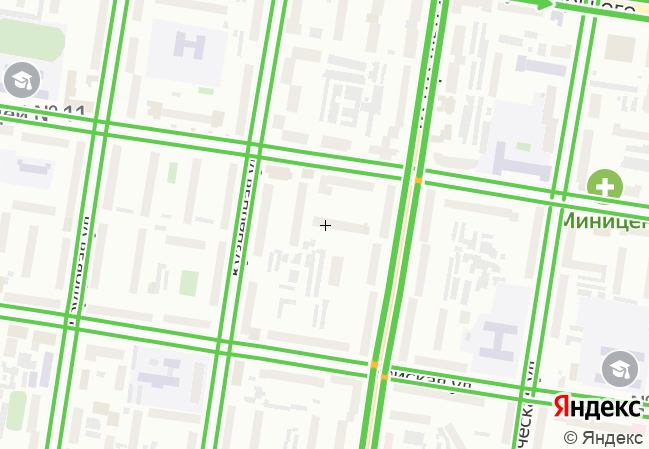
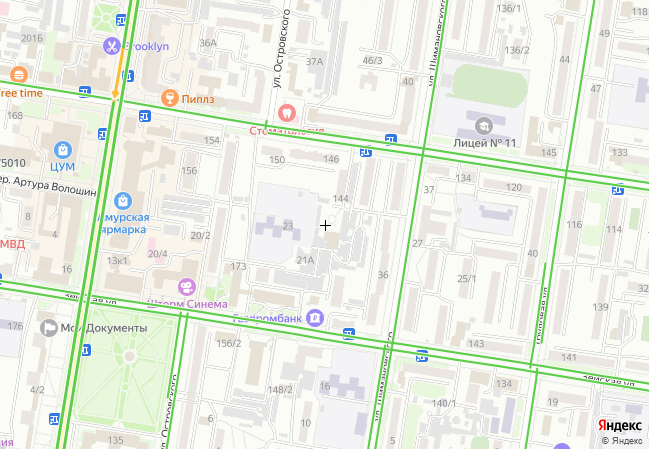
request to DB: road, crossroad, time

diff --git a/forms/UiA.py b/forms/UiA.py
@@ -30,7 +30,7 @@ class UiA(QtWidgets.QDialog, Form):
     def __init__(self, parent=None):
         super(UiA, self).__init__(parent)
         self.map = 'map,trf'
-        self.scale = 2
+        self.scale = 1
         self.kx = 0.00002133
         self.ky = 0.0000135
 
@@ -65,52 +65,14 @@ class UiA(QtWidgets.QDialog, Form):
     def view(self):
         if self.uia.comboBox.currentIndex() == 0:
             self.map = 'map,trf'
-            self.scale = 2
+            self.scale = 1
         elif self.uia.comboBox.currentIndex() == 1:
             self.map = 'map'
             self.scale = 1
         elif self.uia.comboBox.currentIndex() == 2:
             self.map = 'trf'
-            self.scale = 2
+            self.scale = 1
         self.load_map()
-
-    def save(self):
-        self.save_bad_sections()
-        self.save_road()
-        self.save_crossroad()
-        self.save_time()
-        self.save_date()
-
-    def save_bad_sections(self):
-        try:
-            badSection_id = 1
-            for elem in [self.uia.badRoadList.item(i).text() for i in range(self.uia.badRoadList.count())]:
-                temp = elem.replace(',', '').replace('(', '').replace(')', '').split()
-                longitude = temp[0]
-                latitude = temp[1]
-
-                sqlite_insert_query = """INSERT INTO badSections (badSection_id, street,
-                 longitude, latitude, count_lane, max_speed) VALUES (?, ?, ?, ?, ?, ?);"""
-                data = (badSection_id, "", longitude, latitude, 0, 0)
-                self.sql.execute(sqlite_insert_query, data)
-                self.db.commit()
-                badSection_id += 1
-        except sqlite3.Error as error:
-            print("Ошибка при работе с SQLite", error)
-        finally:
-            print("Данные успешно загружены!")
-
-    def save_road(self):
-        pass
-
-    def save_crossroad(self):
-        pass
-
-    def save_time(self):
-        pass
-
-    def save_date(self):
-        pass
 
     def map_click(self):
         self.x = -(325 - self.pos_x)
@@ -127,7 +89,9 @@ class UiA(QtWidgets.QDialog, Form):
 
 
     def showEvent(self, event):
-        self.uia.imageMap.setPixmap(QPixmap('data/map.png'))
+        self.new_longitude = self.uia.longitudeEdit.text()
+        self.new_latitude = self.uia.latitudeEdit.text()
+        self.load_map()
 
     @QtCore.pyqtSlot(QtCore.QPoint)
     def on_positionChanged(self, pos):
@@ -164,3 +128,85 @@ class UiA(QtWidgets.QDialog, Form):
 
     def add_time(self):
         self.uia.timeList.addItem(self.uia.timeEdit.time().toString('hh:mm'))
+
+    def save(self):
+        self.save_bad_sections()
+        self.save_road()
+        self.save_crossroad()
+        self.save_time()
+        self.save_date()
+
+    def save_bad_sections(self):
+        try:
+            badSection_id = 1
+            for elem in [self.uia.badRoadList.item(i).text() for i in range(self.uia.badRoadList.count())]:
+                temp = elem.replace(',', '').replace('(', '').replace(')', '').split()
+                longitude = temp[0]
+                latitude = temp[1]
+
+                sqlite_insert_query = """INSERT INTO badSections (badSection_id, street,
+                 longitude, latitude, count_lane, max_speed) VALUES (?, ?, ?, ?, ?, ?);"""
+                data = (badSection_id, "", longitude, latitude, 0, 0)
+                self.sql.execute(sqlite_insert_query, data)
+                self.db.commit()
+                badSection_id += 1
+        except sqlite3.Error as error:
+            print("Ошибка при работе с SQLite", error)
+        finally:
+            print("Данные успешно загружены!")
+
+    def save_road(self):
+        try:
+            road_id = 1
+            for elem in [self.uia.roadList.item(i).text() for i in range(self.uia.roadList.count())]:
+                temp = elem.replace(',', '').replace('(', '').replace(')', '').split()
+                longitude = temp[0]
+                latitude = temp[1]
+
+                sqlite_insert_query = """INSERT INTO roads (road_id, street,
+                 longitude, latitude, count_lanes, max_speed) VALUES (?, ?, ?, ?, ?, ?);"""
+                data = (road_id, "", longitude, latitude, 0, 0)
+                self.sql.execute(sqlite_insert_query, data)
+                self.db.commit()
+                road_id += 1
+        except sqlite3.Error as error:
+            print("Ошибка при работе с SQLite", error)
+        finally:
+            print("Данные успешно загружены!")
+
+    def save_crossroad(self):
+        try:
+            crossroad_id = 1
+            for elem in [self.uia.crossroadList.item(i).text() for i in range(self.uia.crossroadList.count())]:
+                temp = elem.replace(',', '').replace('(', '').replace(')', '').split()
+                longitude = temp[0]
+                latitude = temp[1]
+
+                sqlite_insert_query = """INSERT INTO crossroads (crossroad_id, street,
+                 longitude, latitude, trafficLights) VALUES (?, ?, ?, ?, ?);"""
+                data = (crossroad_id, "", longitude, latitude, 0)
+                self.sql.execute(sqlite_insert_query, data)
+                self.db.commit()
+                crossroad_id += 1
+        except sqlite3.Error as error:
+            print("Ошибка при работе с SQLite", error)
+        finally:
+            print("Данные успешно загружены!")
+
+    def save_time(self):
+        try:
+            time_id = 1
+            for elem in [self.uia.timeList.item(i).text() for i in range(self.uia.crossroadList.count())]:
+                time = elem
+                sqlite_insert_query = """INSERT INTO times (time_id, time) VALUES (?, ?);"""
+                data = (time_id, time)
+                self.sql.execute(sqlite_insert_query, data)
+                self.db.commit()
+                time_id += 1
+        except sqlite3.Error as error:
+            print("Ошибка при работе с SQLite", error)
+        finally:
+            print("Данные успешно загружены!")
+
+    def save_date(self):
+        pass

diff --git a/main.py b/main.py
@@ -1,8 +1,7 @@
 from forms.UiM import UiM
 from PyQt5 import QtWidgets
 import sys
-#1967db2b-de7d-46b3-b63a-ab040702a18a
-#ruhpjd9444
+
 
 def main():
     app = QtWidgets.QApplication(sys.argv)
